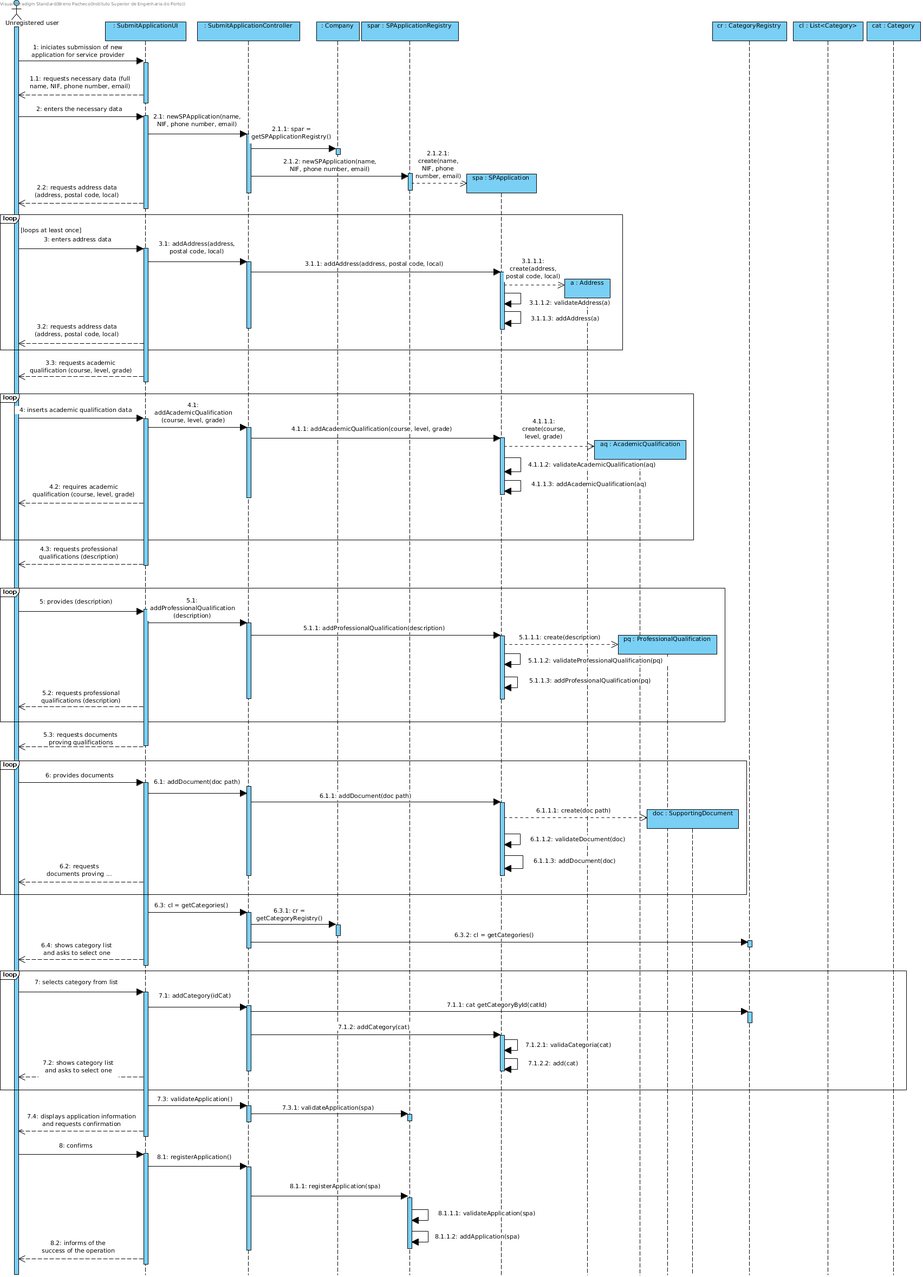
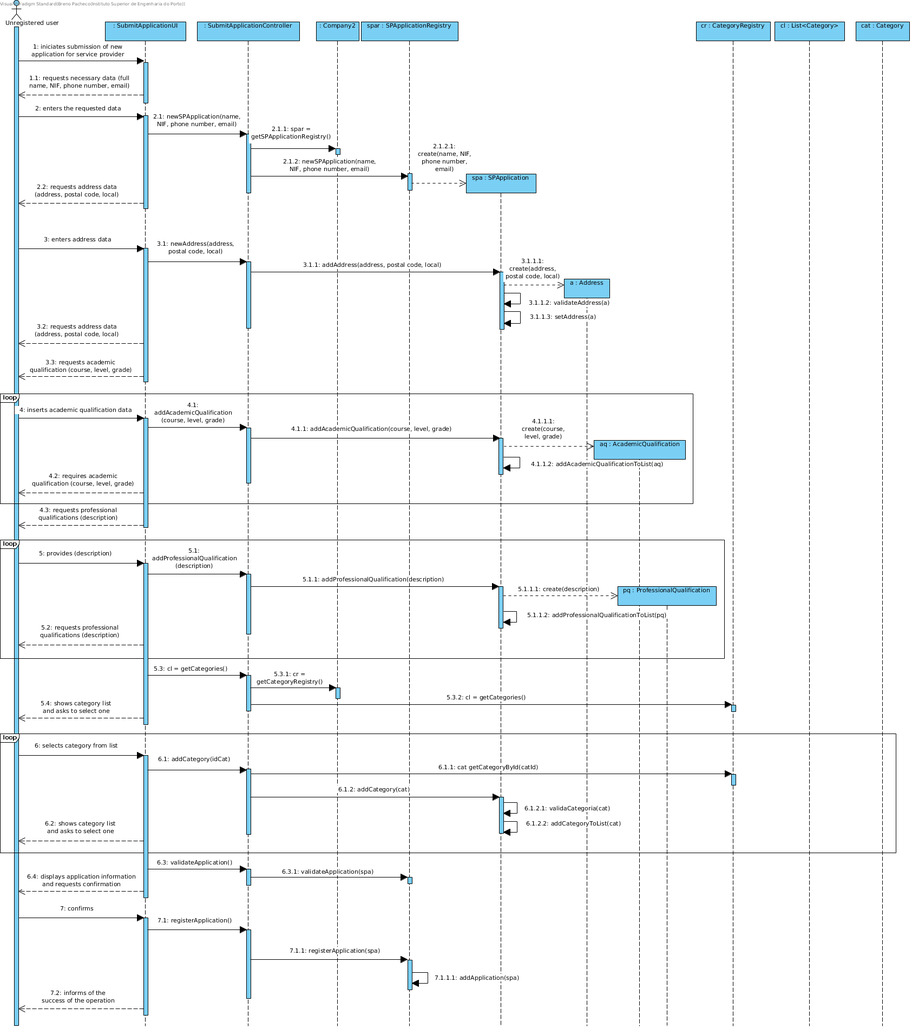
Changes in UC2 requested by the client [UC-2]

diff --git a/Design/UC2_SubmitApplicationForServiceProvider.md b/Design/UC2_SubmitApplicationForServiceProvider.md
@@ -2,43 +2,37 @@
 
 ## Rationale
 
-| Main flow                                                                                                       | Question: What Class ...                                        | Answer                            | Justification                                                                                        |
-| : ------------------------------------------------ -------------------------------------------------- -----     | : ------------------------------------------- ----------------- | : ------------------------------- |                                                                                                      |
-| 1. The unregistered user initiates the submission of a new application for service provider.                    | ... interacts with the user?                                    | SubmitSPApplicationUI             | PureFabrication: it is not justified to assign this responsibility to any class in the Domain Model. |
-|                                                                                                                 | ... coordinates the UC?                                         | SubmitSPApplicationController     | Controller                                                                                           |
-|                                                                                                                 | ... creates instanciates SPApplication?                         | SPApplicationRegistry             | Company delegates responsability (HC-LC)                                                             |
-| 2. The system requests the necessary data (i.e. full name , NIF, phone number, and email).                      | n / a                                                           |                                   |                                                                                                      |
-| 3. The unregistered user enters the requested data.                                                             | ... stores the data entered?                                    | SPApplication                     | Information Expert (IE) - instance created in step 1.                                                |
-| 4. The system requests a postal address.                                                                        | n / a                                                           |                                   |                                                                                                      |
-| 5. The unregistered user enters the postal address.                                                             | ... creates instanciates Postal Address?                        | SPApplication                     | Creator (Rule 4).                                                                                    |
-|                                                                                                                 | ... stores the data entered?                                    | Address                           | Information Expert (IE) - instance created in this step.                                             |
-| 6. The system validates and stores the entered address.                                                         | ... stores the created Postal Address instance?                 | SPApplication                     | Information Expert (IE) - In MD the SPApplication mentions one or more Addresses                     |
-| 7. Steps 4 to 6 are repeated until all the required postal addresses are entered (minimum 1).                   | n / a                                                           |                                   |                                                                                                      |
-| 8. The system requires an academic qualification.                                                               |                                                                 |                                   |                                                                                                      |
-| 9. The unregistered user introduces the academic qualification                                                  | ... creates Academic Qualification?                             | SPApplication                     | Creator (Rule 1).                                                                                    |
-|                                                                                                                 | ... stores the data entered?                                    | AcademicQualification             | Information Expert (IE) - instance created in this step.                                             |
-| 10. The system validates and holds the academic qualification.                                                  | ... do you have the Academic Enrollment instance set up?        | SPApplication                     | Information Expert (IE) - In the MD the SPApplication mentions academic qualifications.              |
-| 11. Steps 8 to 10 are repeated until all academic qualifications have been entered.                             | n / a                                                           |                                   |                                                                                                      |
-| 12. The system requires a professional qualification.                                                           |                                                                 |                                   |                                                                                                      |
-| 13. The unregistered user introduces the professional qualification.                                            | ... creates ProfessionalQualification?                          | SPApplication                     | Creator (Rule 1).                                                                                    |
-|                                                                                                                 | ... stores the data entered?                                    | ProfessionalQualification         | Information Expert (IE) - instance created in this step.                                             |
-| 14. The system validates and holds the professional qualification.                                              | ... stores the Professional Qualification instance created?     | SPApplication                     | Information Expert (IE) - In the MD the SPApplication mentions professional qualifications.          |
-| 15. Steps 12 to 14 are repeated until all professional qualifications have been completed.                      | n / a                                                           |                                   |                                                                                                      |
-| 16. The system requests supporting documents.                                                                   | n / a                                                           |                                   |                                                                                                      |
-| 17. The unregistered user introduces supporting document.                                                       | ... create / instance SupportingDocument?                       | SPApplication                     | Creator (Rule 1).                                                                                    |
-|                                                                                                                 | ... stores the data entered?                                    | SupportingDocument                | Information Expert (IE) - instance created in this step.                                             |
-| 18. The system validates and holds supporting document.                                                         | ... stores the instance of SupportingDocument created?          | SPApplication                     | Information Expert (IE) - In the MD the SPApplication mentions supporting documents.                 |
-| 19. Steps 16 to 18 are repeated until all supporting documents have been entered.                               | n / a                                                           |                                   |                                                                                                      |
-| 20. The system shows the categories of services available in the system.                                        | ... has the existing categories to list?                        | CategoryRegistry                  | IE: CategoryRegistry aggregates Company's Categories                                                 |
-|                                                                                                                 | ... has the CategoryRegistry?                                   | Company                           | IE: Company has the Register for Categories                                                          |
-| 21. The unregistered user selects the category of services he intends to perform.                               |                                                                 |                                   |                                                                                                      |
-| 22. The system validates and stores the selected category.                                                      | ... stores the selected category?                               | SPApplication                     | Information Expert (IE) - In the MD the SPApplication mentions categories of services.               |
-| 23. Steps 20 to 22 are repeated until all categories are entered.                                               |                                                                 |                                   |                                                                                                      |
-| 24. The system validates and presents the application's data and asks for confirmation.                         | ... validate the application data (local validation)            | SPApplication                     | Information Expert (IE) - the SPApplication knows its own data.                                      |
-|                                                                                                                 | ... validate the application data (global validation)           | SPApplicationRegistry             | Information Expert (IE) - the SPApplicationRegistry contains / adds SPApplication.                   |
-| 25. The unregistered user confirms the application details.                                                     |                                                                 |                                   |                                                                                                      |
-| 26. The system registers the new application and informs the unregistered user of the success of the operation. | ... stores the SPApplication                                    |                                   |                                                                                                      |
-|                                                                                                                 | ... inform the unregistered user?                               | SubmitSPApplicationUI             |                                                                                                      |
+| Main flow                                                                                                   | Question: What Class ...                                        | Answer                            | Justification                                                                                        |
+| : ------------------------------------------------ -------------------------------------------------- ----- | : ------------------------------------------- ----------------- | : ------------------------------- |                                                                                                      |
+| 1. The unregistered user initiates the submission of a new application for service provider.                | ... interacts with the user?                                    | SubmitSPApplicationUI             | PureFabrication: it is not justified to assign this responsibility to any class in the Domain Model. |
+|                                                                                                             | ... coordinates the UC?                                         | SubmitSPApplicationController     | Controller                                                                                           |
+|                                                                                                             | ... creates instanciates SPApplication?                         | SPApplicationRegistry             | Company delegates responsability (HC-LC)                                                             |
+| 2. The system requests the necessary data (i.e. full name , NIF, phone number, and email).                  | n / a                                                           |                                   |                                                                                                      |
+| 3. The unregistered user enters the requested data.                                                         | ... stores the data entered?                                    | SPApplication                     | Information Expert (IE) - instance created in step 1.                                                |
+| 4. The system requests a postal address (i.e. address, postal code, local).                                 | n / a                                                           |                                   |                                                                                                      |
+| 5. The unregistered user enters the postal address.                                                         | ... creates instanciates  Address?                              | SPApplication                     | Creator (Rule 4).                                                                                    |
+|                                                                                                             | ... stores the data entered?                                    | Address                           | Information Expert (IE) - instance created in this step.                                             |
+|                                                                                                             | ... stores the created Postal Address instance?                 | SPApplication                     | Information Expert (IE) - In MD the SPApplication mentions one or more Addresses                     |
+| 6. The system requires an academic qualification. (course, level, grade)                                    | n / a                                                           |                                   |                                                                                                      |
+| 7. The unregistered user introduces the academic qualification                                              | ... creates Academic Qualification?                             | SPApplication                     | Creator (Rule 1).                                                                                    |
+|                                                                                                             | ... stores the data entered?                                    | AcademicQualification             | Information Expert (IE) - instance created in this step.                                             |
+|                                                                                                             | ... stores the AcademicQualification instance?                  | SPApplication                     | Creator (Rule 1).
+| 8. Steps 6 to 7 are repeated until all academic qualifications have been entered.                           | n / a                                                           |                                   |                                                                                                      |
+| 9. The system requires a professional qualification (i.e. description).                                     | n / a                                                           |                                   |                                                                                                      |
+| 10. The unregistered user introduces the professional qualification.                                        | ... creates ProfessionalQualification?                          | SPApplication                     | Creator (Rule 1).                                                                                    |
+|                                                                                                             | ... stores the data entered?                                    | ProfessionalQualification         | Information Expert (IE) - instance created in this step.                                             |
+|                                                                                                             | ... stores the Professional Qualification instance created?     | SPApplication                     | Information Expert (IE) - In the MD the SPApplication mentions professional qualifications.          |
+| 11. Steps 9 to 10 are repeated until all professional qualifications have been completed.                   | n / a                                                           |                                   |                                                                                                      |
+| 12. The system shows the categories of services available in the system.                                    | ... has the existing categories to list?                        | CategoryRegistry                  | IE: CategoryRegistry aggregates Company's Categories                                                 |
+|                                                                                                             | ... has the CategoryRegistry?                                   | Company                           | IE: Company has the Register for Categories                                                          |
+| 13. The unregistered user selects the category of services he intends to perform.                           | n / a                                                           |                                   |                                                                                                      |
+| 14. The system validates and stores the selected category.                                                  | ... stores the selected category?                               | SPApplication                     | Information Expert (IE) - In the MD the SPApplication mentions categories of services.               |
+| 15. Steps 12 to 14 are repeated until all categories are entered.                                           | n / a                                                           |                                   |                                                                                                      |
+| 16. The system validates and presents the application's data and asks for confirmation.                     | ... validate the application data (local validation)            | SPApplication                     | Information Expert (IE) - the SPApplication knows its own data.                                      |
+|                                                                                                             | ... validate the application data (global validation)           | SPApplicationRegistry             | Information Expert (IE) - the SPApplicationRegistry contains / adds SPApplication.                   |
+| 17. The unregistered user confirms the application details.                                                 | n / a                                                           |                                   |                                                                                                      |
+| 18. The system registers the new application and informs of the success of the operation.                   | ... stores the SPApplication                                    |                                   |                                                                                                      |
+|                                                                                                             | ... inform the unregistered user?                               | SubmitSPApplicationUI             |                                                                                                      |
 
 ## Systematization
 

diff --git a/UseCases/UC2_ServiceProviderApplicationSubmission.md b/UseCases/UC2_ServiceProviderApplicationSubmission.md
@@ -2,7 +2,7 @@
 
 ## Brief description
 
-The unregistered user initiates the registration of a new application for service provider. The system requests the necessary data for the application (full name NIF, phone number, email, postal address (at leats one), academic and professional qualifications and supporting documents). The unregistered user enters the requested data. The system shows the service categories and requests the user to select those whose servers he wishes to provide. The unregistered user select the desired categories. The system validates and displays the data, asking to confirm them. The unregistered user confirms the application. The system registers the new application and informs the user that success of the operation.
+The unregistered user initiates the registration of a new application for service provider. The system requests the necessary data for the application (full name NIF, phone number, email). The unregistered user enters the requested data. The system requests an address (address, postal code, local). The unregistered user enters the data. The system requests academic and professional competences (one or more). The unregistered user enters the requested data. The system shows the service categories and requests the user to select those whose services he wishes to provide (one or more). The unregistered user select the desired categories. The system validates and displays the data, asking to confirm them. The unregistered user confirms the application. The system registers the new application and informs the user that success of the operation.
 ## SSD
 
 ![]( SSD_UC2_IT1.png)
@@ -32,51 +32,35 @@ An application for service provider is registered in the system.
 
 3. The unregistered user enters the requested data.
 
-4. The system requests a postal address.
+4. The system requests a postal address (i.e address, postal code, local).
 
-5. The unregistered user enters the postal address.
+5. The unregistered user enters the request data.
 
-6. The system validates and stores the address.
+6. The system requires an academic qualification.
 
-7. Steps 4 to 6 are repeated until all postal addresses are provided (minimum 1).
+7. The unregistered user introduces the academic qualification (i.e. course, level, grade)
 
-8. The system requires an academic qualification.
+8. Steps 6 to 7 are repeated until all academic qualifications have been entered.
 
-9. The unregistered user introduces the academic qualification
+9. The system requires a professional qualification.
 
-10. The system validates and holds the academic qualification.
+10. The unregistered user introduces the professional qualification (i.e. description).
 
-11. Steps 8 to 10 are repeated until all academic qualifications have been entered.
+11. Steps 9 to 10 are repeated until all professional qualifications have been completed.
 
-12. The system requires a professional qualification.
+12. The system shows the categories of services available in the system.
 
-13. The unregistered user introduces the professional qualification.
+13. The unregistered user selects the category of services he intends to perform.
 
-14. The system validates and holds the professional qualification.
+14. The system validates and stores the selected category.
 
-15. Steps 12 to 14 are repeated until all professional qualifications have been completed.
+15. Steps 12 to 14 are repeated until all categories are entered.
 
-16. The system requests supporting documents proving the user's qualification.
+16. The system validates and presents the application data to the unregistered user and asks him to confirm them.
 
-17. The unregistered user introduces the document.
+17. The unregistered user confirms the application details.
 
-18. The system validates and holds the document.
-
-19. Steps 16 to 18 are repeated until all supporting documents have been entered.
-
-20. The system shows the categories of services available in the system.
-
-21. The unregistered user selects the category of services he intends to perform.
-
-22. The system validates and stores the selected category.
-
-23. Steps 20 to 22 are repeated until all categories are entered.
-
-24. The system validates and presents the application data to the unregistered user and asks him to confirm them.
-
-25. The unregistered user confirms the application details.
-
-26. The system registers the new application and informs the unregistered user of the success of the operation.
+18. The system registers the new application and informs the unregistered user of the success of the operation.
 
 
 ### Extensions (alternative flow)
@@ -85,61 +69,51 @@ An application for service provider is registered in the system.
 
 > End of use case.
 
-6a. Incomplete Postal Address Information.
+5a. Incomplete Postal Address Information.
 
 > 1. The system informs the user of about the missing data.
 
-> 2. The system allows the missing data to be entered (step 5)
+> 2. The system allows the missing data to be entered (step 4)
 
 >> 2a. The unregistered user does not change the data. The use case ends.
 
-10a. Incomplete Academic Enrollment Data.
+7a. Incomplete Academic Enrollment Data.
 
 > 1. The system informs the user of missing data.
 
-> 2. The system allows the user to enter the missing data (step 9)
+> 2. The system allows the user to enter the missing data (step 7)
 
 >> 2a. The unregistered user does not change the data. The use case ends.
 
-14a. Incomplete Professional Qualification Data.
+10a. Incomplete Professional Qualification Data.
 
 > 1. The system informs the user of missing data.
 
-> 2. The system allows the user to enter the missing data (step 13)
+> 2. The system allows the user to enter the missing data (step 10)
 
 >> 2a. The unregistered user does not change the data. The use case ends.
 
-14a. Document format is not supported.
-
-> 1. The system system informs the user.
-
-> 2. The system allows the user to enter another document (step 13)
-
->> 2a. The unregistered user does not change the data. The use case ends.
-
-20a. The system has no service categories to display.
+12a. The system has no service categories to display.
 
 > 1. The system informs that there are no service categories.
 
->> The use case advances to step 24.
+>> The use case advances to step 16.
 
-24a. Required minimum data missing.
+14a. The system verifies that a category has been entered twice.
+
+> 1. The system informs that the category has already been selected.
+
+>> The use case advances to step 13
+
+16a. Required minimum data missing.
 
 > 1. The system informs the user of missing data.
 
-> 2. The system allows the missing data to be entered (step 3)
+> 2. The system allows the missing data to be entered (step 4)
 
 >> 2a. The unregistered user does not change the data. The use case ends.
 
-24b. The system detects that the data (or any subset of the data) entered must be unique and already exist in the system.
-
-> 1. The system alerts the unregistered user to the fact.
-
-> 2. The system allows the user to change it (step 3)
-
->> 2a. The unregistered user does not change the data. The use case ends.
-
-24c. The system detects that the data entered (or some subset of the data) are invalid.
+16b. The system detects that the data entered (or some subset of the data) are invalid.
 
 > 1. The system alerts the unregistered user to the fact.
 
@@ -160,17 +134,3 @@ n/a
 n/a
 
 ### Open questions
-
-- What are the mandatory data for a valid application?
-
-- What are the necessary data related to Academic Qualification?
-
-- What are the necessary data related to a Professional Qualification?
-
-- What is the data that uniquely identifies an application?
-
-- How does the unregistered user know that his / her application has been accepted?
-
-- There is a limit of categories of services to which the unregistered user can the user apply?
-
-- Who is responsible for promoting the candidate to an effective service provider in the company?
